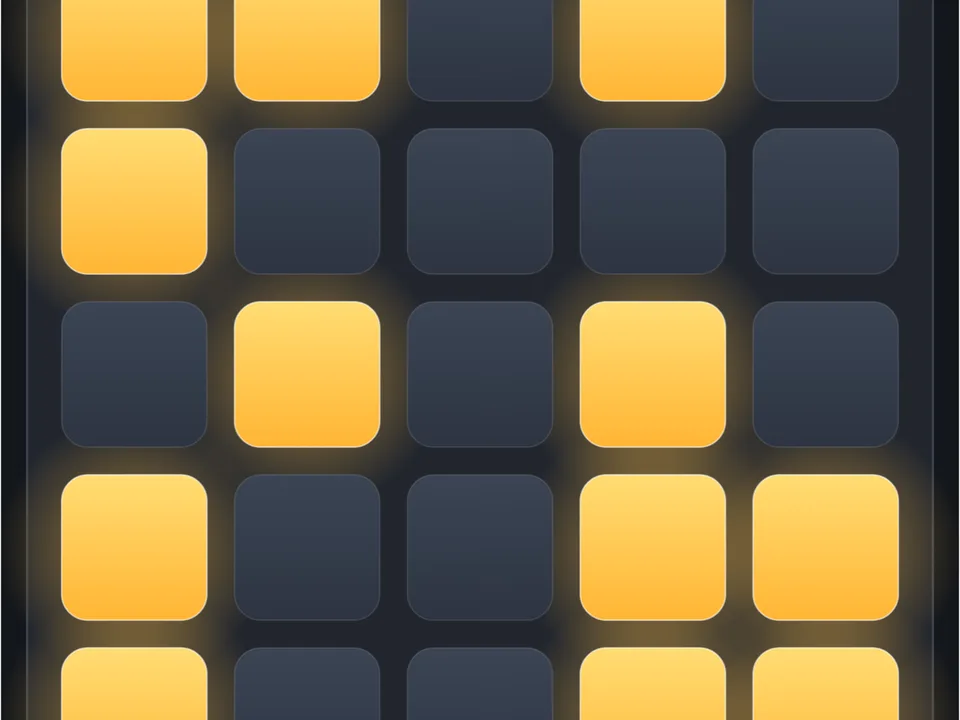
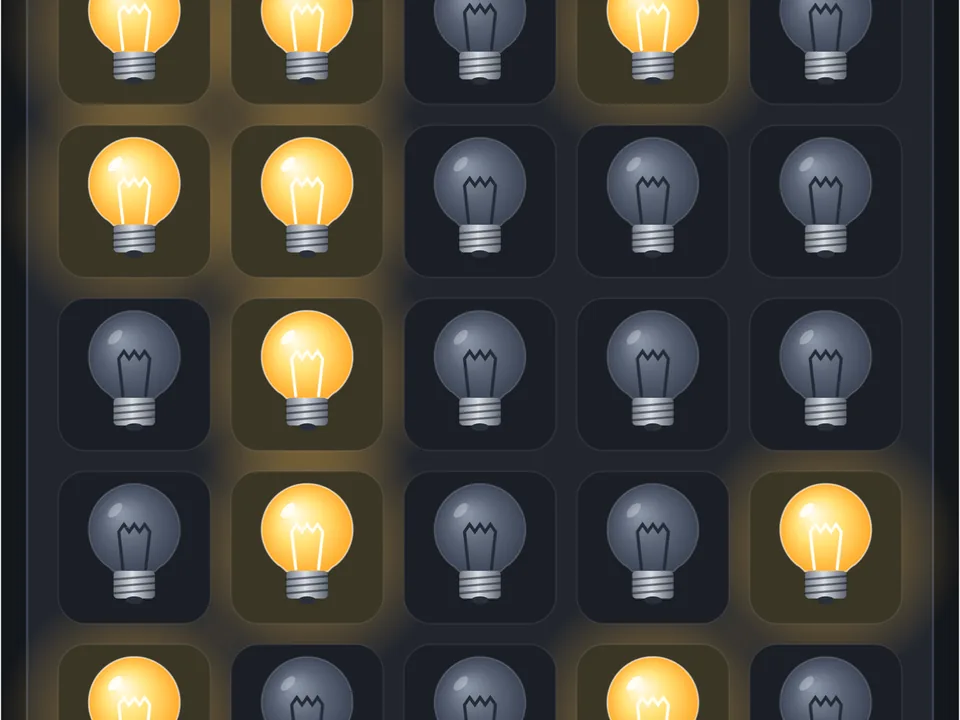
The grill: meat is eaten on the large plate, a wrap begins with its leaf, a whole wrap gives time back; lights on shows bulbs
Claude-Session: https://claude.ai/code/session_01Uedx1uYtd54DPXXtQh77nN

diff --git a/src/games/grill/config.ts b/src/games/grill/config.ts
@@ -1,6 +1,6 @@
 import { part, steps, notes, table } from "../../ui/guide";
 import type { PointConfig } from "../../ui/point-game";
-import { BEST, BURN, DRESS, EAT, SECONDS, WRAP, clock, grill, type State } from "./rules";
+import { BEST, BURN, DRESS, EAT, EXTRA, SECONDS, WRAP, clock, grill, type State } from "./rules";
 import { CUTS, FILLING, PORTION, RELISHES } from "./sim";
 import { GRILL_COLORS, GrillView } from "./view";
 
@@ -40,15 +40,15 @@ export const grillConfig: PointConfig<State> = {
   tableNote: (variant) => (variant === "2" ? "무제한 모드" : `일반 모드 · ${SECONDS}초`),
   rulesTitle: "올리고, 뒤집고, 싸 먹기",
   rules:
-    part("기본 규칙", steps(`화로 양옆에 고기 접시가 ${CUTS.length}개 있습니다. 접시가 비면 <b>바로 다시 ${PORTION}점</b>이 채워집니다.`, "접시의 고기를 <b>불판으로 끌어다 놓습니다</b>. 눌러서는 올라가지 않습니다. 불판에는 일곱 점까지 올릴 수 있습니다.", "고기는 <b>불에 닿은 아래쪽 면</b>만 익습니다. <b>불판 위의 고기를 누르면 뒤집힙니다</b>. 몇 번이든 뒤집을 수 있습니다.", "다 익은 고기는 <b>불판 밖으로 끌어내면</b> 먹습니다. 오른쪽 위의 <b>큰 접시</b>로 끌어다 놓으면 쌈을 쌀 수 있습니다.", "너무 오래 두면 <b>탑니다</b>. 탄 고기는 그 자리를 차지한 채 남으니 끌어내 버립니다.")) +
+    part("기본 규칙", steps(`화로 양옆에 고기 접시가 ${CUTS.length}개 있습니다. 접시가 비면 <b>바로 다시 ${PORTION}점</b>이 채워집니다.`, "접시의 고기를 <b>불판으로 끌어다 놓습니다</b>. 눌러서는 올라가지 않습니다. 불판에는 일곱 점까지 올릴 수 있습니다.", "고기는 <b>불에 닿은 아래쪽 면</b>만 익습니다. <b>불판 위의 고기를 누르면 뒤집힙니다</b>. 몇 번이든 뒤집을 수 있습니다.", "다 익은 고기는 오른쪽 위의 <b>큰 접시로 끌어다 놓으면</b> 먹습니다. 큰 접시에 <b>쌈채소를 먼저</b> 올려 두었으면 먹지 않고 쌈을 쌉니다. 접시가 아닌 곳에 놓으면 제자리로 돌아갑니다.", "너무 오래 두면 <b>탑니다</b>. 탄 고기는 그 자리를 차지한 채 남으니 끌어내 버립니다.")) +
     part("모드", table(["일반 모드", `${SECONDS}초 동안 점수를 최대한 냅니다. 시간이 끝났을 때 불판과 큰 접시에 남은 것은 점수가 없습니다.`], ["무제한 모드", "시간 제한이 없습니다. 끝도 없으니 마음껏 굽습니다."], ["고르기", "위쪽의 <b>새 게임</b>을 누르면 두 모드가 그림으로 나옵니다. 처음 앉으면 일반 모드입니다."])) +
-    part("쌈 싸기", table(["큰 접시", "오른쪽 위의 빈 큰 접시입니다. 여기에 올린 것을 한꺼번에 먹습니다."], ["쌈채소", "아래쪽 바구니에서 큰 접시로 끌어다 놓습니다."], ["고기", `불판에서 큰 접시로 끌어다 놓습니다. ${FILLING}점까지 올라갑니다. 탄 고기는 올라가지 않습니다.`], ["양념", `위쪽의 ${RELISHES.join(", ")}을 큰 접시로 끌어다 놓습니다. 한 가지씩 한 번만 올라갑니다.`], ["먹기", "큰 접시를 <b>누르면</b> 올린 것을 먹습니다."], ["점수", "고기 점수에 더해, 쌈채소로 쌌으면 <b>+2점</b>, 양념 한 가지마다 <b>+1점</b>(세 가지까지)입니다. 쌈채소 없이 먹으면 고기 점수뿐이고, 익은 고기가 없으면 0점입니다."])) +
+    part("쌈 싸기", table(["큰 접시", "오른쪽 위의 빈 큰 접시입니다. 비어 있을 때 고기를 놓으면 그 고기만 바로 먹습니다(고기 점수만)."], ["쌈채소", "아래쪽 바구니에서 큰 접시로 끌어다 놓습니다. <b>쌈채소를 먼저 놓아야</b> 쌈 싸기가 시작됩니다."], ["고기", `불판에서 큰 접시로 끌어다 놓습니다. ${FILLING}점까지 올라갑니다. 탄 고기는 올라가지 않습니다.`], ["양념", `위쪽의 ${RELISHES.join(", ")}을 쌈채소 위로 끌어다 놓습니다. 한 가지씩 한 번만 올라갑니다.`], ["먹기", "큰 접시를 <b>누르면</b> 싼 쌈을 먹습니다."], ["점수", "고기 점수에 더해 쌈 <b>+2점</b>, 양념 한 가지마다 <b>+1점</b>(세 가지까지)입니다. 익은 고기가 없으면 0점입니다."], ["추가 시간", `익은 고기와 양념을 모두 넣은 쌈을 먹으면 일반 모드에서 <b>시간이 ${EXTRA}초</b> 늘어납니다.`])) +
     part("익은 정도와 점수", table(["알아보는 법", "눈금은 없습니다. 아래쪽 면은 <b>연기</b>로, 위쪽 면은 <b>고기의 색</b>으로 알아봅니다. 뒤집으면 방금까지 익던 면이 위로 올라와 보입니다."], ["연기 없음 · 덜 익음", "한 면이라도 덜 익은 고기는 0점입니다."], ["옅은 연기 · 익음", "그 면 1점."], ["흰 연기 · 딱 좋음", "그 면 3점. 양쪽 다 딱 좋으면 한 점에 6점입니다."], ["회색 연기 · 너무 익음", "그 면 1점."], ["검은 연기 · 타기 직전", "그 면 0점. 그대로 두면 탑니다."])) +
-    part("고기와 불", table(...CUTS.map((cut): [string, string] => [cut.name, `한 면이 익는 데 약 ${cut.seconds}초`]), ["가운데 자리", "숯이 가장 센 곳이라 다른 자리보다 빨리 익습니다."], ["자리 옮기기", "불판 위에서 빈자리로 끌면 그 자리로 옮겨집니다."], ["길게 누르기", "불판 위의 고기를 길게 눌렀다 떼면 끌어내지 않고도 먹습니다."])) +
-    part("키보드", table(["고르기", "← → 로 접시, 불판 자리, 큰 접시를 차례로 고릅니다."], ["Enter", "접시에서는 올리기, 자리에서는 뒤집기, 큰 접시에서는 먹기."], ["스페이스 · S", "자리에서 스페이스는 먹기, S는 큰 접시로 보내기."], ["L · 1–4", `L은 쌈채소, 1–4는 ${RELISHES.join("·")}을 큰 접시에 올립니다.`])) +
+    part("고기와 불", table(...CUTS.map((cut): [string, string] => [cut.name, `한 면이 익는 데 약 ${cut.seconds}초`]), ["가운데 자리", "숯이 가장 센 곳이라 다른 자리보다 빨리 익습니다."], ["자리 옮기기", "불판 위에서 빈자리로 끌면 그 자리로 옮겨집니다."])) +
+    part("키보드", table(["고르기", "← → 로 접시, 불판 자리, 큰 접시를 차례로 고릅니다."], ["Enter", "접시에서는 올리기, 자리에서는 뒤집기, 큰 접시에서는 먹기."], ["스페이스 · S", "자리의 고기를 큰 접시로 보냅니다. 쌈채소가 없으면 바로 먹고, 있으면 쌈에 들어갑니다."], ["L · 1–4", `L은 쌈채소, 1–4는 ${RELISHES.join("·")}을 큰 접시에 올립니다.`])) +
     part("일시정지", table(["멈추기", "판 오른쪽 위의 <b>❙❙</b> 버튼이나 키보드 P를 누르면 멈춥니다."], ["이어 하기", "같은 자리의 <b>▶</b> 버튼이나 P를 다시 누릅니다."], ["저절로 멈출 때", "게임 방법이나 설정 창이 열려 있는 동안에도 멈춥니다."])) +
-    part("처음이라면", notes("한 점씩 구우면 시간이 모자랍니다. <b>서너 점을 함께</b> 올려 두고 돌아가며 뒤집습니다.", "<b>차돌박이</b>는 금방 익고 <b>목살</b>은 오래 걸립니다. 오래 걸리는 것을 먼저 올립니다.", "<b>흰 연기</b>가 피어오르면 뒤집고, 다시 흰 연기가 피어오르면 끌어냅니다.", "쌈채소와 양념은 고기가 익는 동안 미리 올려 둡니다. 잘 익은 두 점을 싸면 한 번에 17점까지 납니다.")),
-  help: "마우스·터치: 접시의 고기를 불판으로 끌어다 놓고, 눌러서 뒤집고, 불판 밖이나 큰 접시로 끌어냅니다<br>키보드: ← → 로 고르고 Enter, 스페이스(먹기), S(큰 접시로), L(쌈채소), 1–4(양념)",
+    part("처음이라면", notes("한 점씩 구우면 시간이 모자랍니다. <b>서너 점을 함께</b> 올려 두고 돌아가며 뒤집습니다.", "<b>차돌박이</b>는 금방 익고 <b>목살</b>은 오래 걸립니다. 오래 걸리는 것을 먼저 올립니다.", "<b>흰 연기</b>가 피어오르면 뒤집고, 다시 흰 연기가 피어오르면 큰 접시로 끌어냅니다.", "쌈채소와 양념은 고기가 익는 동안 미리 올려 둡니다. 잘 익은 두 점을 싸면 한 번에 17점까지 납니다.")),
+  help: "마우스·터치: 접시의 고기를 불판으로 끌어다 놓고, 눌러서 뒤집고, 큰 접시로 끌어내 먹습니다(쌈채소를 먼저 놓으면 쌈)<br>키보드: ← → 로 고르고 Enter, 스페이스(큰 접시로), L(쌈채소), 1–4(양념)",
   sides: ["나", ""],
   startWord: "식탁에 앉기",
 };

diff --git a/src/games/lights/view.ts b/src/games/lights/view.ts
@@ -64,23 +64,15 @@ export class LightsView extends FlatView<State> {
     });
     s.on.forEach((lit, i) => {
       const { x, y } = at(i),
-        inset = cell * (0.08 + (this.dip?.cell === i ? 0.05 * Math.sin((1 - (this.dip.until - now) / 160) * Math.PI) : 0)),
-        size = cell - inset * 2,
-        face = pen.createLinearGradient(0, y, 0, y + cell);
-      if (lit) {
-        face.addColorStop(0, "#ffe07a");
-        face.addColorStop(1, "#ffb22e");
-      } else {
-        face.addColorStop(0, "#3d4656");
-        face.addColorStop(1, "#2c3340");
-      }
-      rounded(pen, x + inset, y + inset, size, size, size * 0.18);
-      pen.fillStyle = face;
+        press = this.dip?.cell === i ? 1 - 0.1 * Math.sin((1 - (this.dip.until - now) / 160) * Math.PI) : 1;
+      // The socket each bulb sits in: a shallow square of the panel.
+      rounded(pen, x + cell * 0.06, y + cell * 0.06, cell * 0.88, cell * 0.88, cell * 0.16);
+      pen.fillStyle = lit ? "#3a3626" : "#1b1f26";
       pen.fill();
-      // A lit edge above and a shaded one below make it a button.
-      pen.strokeStyle = lit ? "rgba(255,255,255,0.55)" : "rgba(255,255,255,0.1)";
+      pen.strokeStyle = "rgba(255,255,255,0.07)";
       pen.lineWidth = 1.5 * this.ratio;
       pen.stroke();
+      this.bulb(pen, x + cell / 2, y + cell / 2, cell * 0.8 * press, lit);
     });
     const ring = (cell_: number | null | undefined, color: string, width: number) => {
       if (cell_ === null || cell_ === undefined || cell_ < 0 || cell_ >= s.on.length) return;
@@ -92,5 +84,71 @@ export class LightsView extends FlatView<State> {
     };
     ring(this.marks.hint?.to, "#ff4f38", 5);
     ring(this.marks.cursor, "#6fb0ff", 3.5);
+  }
+  /** A light bulb standing on its cap, `size` tall, lit or dark. */
+  private bulb(pen: CanvasRenderingContext2D, cx: number, cy: number, size: number, lit: boolean) {
+    const r = size * 0.33,
+      gy = cy - size * 0.13,
+      neck = size * 0.15,
+      capTop = gy + r * 0.86,
+      capTall = size * 0.2,
+      glass = pen.createRadialGradient(cx - r * 0.3, gy - r * 0.35, r * 0.05, cx, gy, r * 1.05);
+    if (lit) {
+      glass.addColorStop(0, "#fffbe6");
+      glass.addColorStop(0.45, "#ffe27a");
+      glass.addColorStop(1, "#ffa726");
+    } else {
+      glass.addColorStop(0, "#8a94a6");
+      glass.addColorStop(0.5, "#596274");
+      glass.addColorStop(1, "#3a4252");
+    }
+    // The glass: a ball drawn down into a neck.
+    pen.beginPath();
+    pen.arc(cx, gy, r, Math.PI * 0.72, Math.PI * 0.28, false);
+    pen.quadraticCurveTo(cx + neck * 1.25, capTop - size * 0.02, cx + neck, capTop + size * 0.02);
+    pen.lineTo(cx - neck, capTop + size * 0.02);
+    pen.quadraticCurveTo(cx - neck * 1.25, capTop - size * 0.02, cx + Math.cos(Math.PI * 0.72) * r, gy + Math.sin(Math.PI * 0.72) * r);
+    pen.closePath();
+    pen.fillStyle = glass;
+    pen.fill();
+    pen.strokeStyle = lit ? "rgba(255,255,255,0.6)" : "rgba(255,255,255,0.16)";
+    pen.lineWidth = 1.5 * this.ratio;
+    pen.stroke();
+    // The filament: two posts and a coil between them.
+    pen.strokeStyle = lit ? "#fffef2" : "#252b36";
+    pen.lineWidth = Math.max(1, size * 0.022);
+    pen.lineCap = "round";
+    pen.beginPath();
+    pen.moveTo(cx - neck * 0.55, capTop);
+    pen.lineTo(cx - r * 0.34, gy + r * 0.05);
+    for (let k = 1; k <= 6; k++) pen.lineTo(cx - r * 0.34 + (r * 0.68 * k) / 6, gy + r * 0.05 + (k % 2 ? -r * 0.16 : 0));
+    pen.lineTo(cx + neck * 0.55, capTop);
+    pen.stroke();
+    // A glint on the glass.
+    pen.beginPath();
+    pen.ellipse(cx - r * 0.42, gy - r * 0.42, r * 0.2, r * 0.1, -0.8, 0, Math.PI * 2);
+    pen.fillStyle = lit ? "rgba(255,255,255,0.85)" : "rgba(255,255,255,0.28)";
+    pen.fill();
+    // The screw cap and its contact.
+    const metal = pen.createLinearGradient(cx - neck, 0, cx + neck, 0);
+    metal.addColorStop(0, "#6f7682");
+    metal.addColorStop(0.45, "#d9dee6");
+    metal.addColorStop(1, "#5d6470");
+    rounded(pen, cx - neck, capTop + size * 0.015, neck * 2, capTall, size * 0.03);
+    pen.fillStyle = metal;
+    pen.fill();
+    pen.strokeStyle = "rgba(20,24,30,0.55)";
+    pen.lineWidth = Math.max(1, size * 0.016);
+    for (let k = 1; k <= 3; k++) {
+      const y = capTop + size * 0.015 + (capTall * k) / 4;
+      pen.beginPath();
+      pen.moveTo(cx - neck, y + size * 0.012);
+      pen.lineTo(cx + neck, y - size * 0.012);
+      pen.stroke();
+    }
+    pen.beginPath();
+    pen.ellipse(cx, capTop + size * 0.015 + capTall + size * 0.012, neck * 0.42, size * 0.028, 0, 0, Math.PI * 2);
+    pen.fillStyle = "#2a2f38";
+    pen.fill();
   }
 }

diff --git a/src/games/grill/view.ts b/src/games/grill/view.ts
@@ -2,8 +2,8 @@ import * as T from "three";
 import { wood } from "../../engine/scene-utils";
 import type { Marks } from "../points/view";
 import { TableView, ringMesh, type Spot, type TableSubject } from "../table/view";
-import { BEST, BURN, DRESS, EAT, FLIP, LAY, TICK, WRAP, type State } from "./rules";
-import { CHARRED, COAL, CUTS, DT, FILLING, GOOD, OVER, PORTION, RAW, RELISHES, SLOTS, createWorld, down, eatWrap, fill, flip, lay, leaf, relish, shift, step, take, type Happening, type Piece, type World } from "./sim";
+import { BEST, BONUS, BURN, DRESS, EAT, EXTRA, FLIP, LAY, TICK, WRAP, type State } from "./rules";
+import { CHARRED, COAL, CUTS, DT, FILLING, GOOD, OVER, PORTION, RAW, RELISHES, SLOTS, createWorld, down, eatWrap, flip, lay, leaf, relish, serve, shift, step, take, type Happening, type Piece, type World } from "./sim";
 import tableUrl from "./table.webp?inline";
 import bellyUrl from "./belly.webp?inline";
 import ribUrl from "./rib.webp?inline";
@@ -420,8 +420,7 @@ export class GrillView extends TableView<State> {
       else if (e.key >= "1" && e.key <= String(RELISHES.length)) this.report(relish(this.world, Number(e.key) - 1));
       else if (this.cursor < 0) return;
       else if (e.key === "Enter") this.report(this.cursor < PLATES.length ? lay(this.world, this.cursor) : place ? flip(this.world, slot) : eatWrap(this.world));
-      else if ((e.key === " " || e.key === "e" || e.key === "E" || e.key === "ㄷ") && place) this.report(take(this.world, slot));
-      else if ((e.key === "s" || e.key === "S" || e.key === "ㄴ") && place) this.report(fill(this.world, slot));
+      else if ((e.key === " " || e.key === "e" || e.key === "E" || e.key === "ㄷ" || e.key === "s" || e.key === "S" || e.key === "ㄴ") && place) this.report(serve(this.world, slot));
       else return;
       e.preventDefault();
     });
@@ -669,9 +668,11 @@ export class GrillView extends TableView<State> {
       }
       if (event.kind === "dress") move(DRESS);
       else if (event.kind === "wrap") {
-        const text = event.meats === 0 ? "채소만 먹었어요" : event.points === 0 ? "덜 익었어요" : event.leaf ? `쌈 +${event.points}` : `+${event.points}`;
-        this.say(text, event.leaf && event.points > 0 ? "#ffd24a" : "#dfe6ee", BOARD[0], BOARD[1], now);
+        const timed = event.bonus && !this.state?.endless,
+          text = event.meats === 0 ? "채소만 먹었어요" : event.points === 0 ? "덜 익었어요" : `쌈 +${event.points}${timed ? ` · 시간 +${EXTRA}초` : ""}`;
+        this.say(text, event.points > 0 ? "#ffd24a" : "#dfe6ee", BOARD[0], BOARD[1], now);
         move(WRAP + event.points);
+        if (event.bonus) move(BONUS);
       } else {
         const [x, z] = PLACES[event.slot];
         if (event.kind === "lay") move(LAY);
@@ -724,9 +725,9 @@ export class GrillView extends TableView<State> {
       onBoard = Math.hypot(at.x - BOARD[0], at.z - BOARD[1]) < BOARD[2] + 0.25,
       over = Math.hypot(at.x, at.z) < RIM;
     if (!grab.moved) {
-      // Nothing is laid by a tap: only a piece already on the grill answers one (it turns, or, held a while, is taken off), and the wrap plate (what is on it is eaten).
+      // Nothing is laid by a tap: only a piece already on the grill answers one (it turns), and the wrap plate (what is on it is eaten).
       if (point === WRAPPING) this.report(eatWrap(this.world));
-      else if (point >= PLACE && point < PLATE) this.report(performance.now() - grab.at > 450 ? take(this.world, point - PLACE) : flip(this.world, point - PLACE));
+      else if (point >= PLACE && point < PLATE) this.report(flip(this.world, point - PLACE));
       return;
     }
     if (point >= DISH && point < WRAPPING) {
@@ -741,8 +742,10 @@ export class GrillView extends TableView<State> {
     } else if (point >= PLACE && point < PLATE) {
       const slot = point - PLACE,
         place = this.placeAt(at);
-      if (onBoard) this.report(fill(this.world, slot));
-      else if (!over) this.report(take(this.world, slot));
+      // Onto the large plate it is eaten, or wrapped when a leaf lies there. Set down anywhere else off the grill it goes
+      // back where it was, unless it is burnt: that is thrown away.
+      if (onBoard) this.report(serve(this.world, slot));
+      else if (!over) this.report(this.world.slots[slot]?.burnt ? take(this.world, slot) : []);
       else if (place >= 0) shift(this.world, slot, place);
     }
   }

diff --git a/tests/solo-games.test.ts b/tests/solo-games.test.ts
@@ -918,6 +918,9 @@ describe("meat grill", () => {
     fire.lay(world, 2, 2);
     cook(world, 1);
     expect(fire.worth(world.slots[1]!)).toBe(grill.BEST);
+    // Without a leaf there is no wrap: neither a piece nor a relish goes onto the bare plate.
+    expect(fire.fill(world, 1)).toEqual([]);
+    expect(fire.relish(world, 1)).toEqual([]);
     expect(fire.leaf(world)).toEqual([{ kind: "dress" }]);
     // One leaf, each relish once, two pieces at most.
     expect(fire.leaf(world)).toEqual([]);
@@ -928,21 +931,30 @@ describe("meat grill", () => {
     expect(fire.relish(world, 9)).toEqual([]);
     fire.relish(world, 0);
     // Six for the piece, two for the wrap, one for each of two relishes.
-    expect(fire.eatWrap(world)).toEqual([{ kind: "wrap", points: 10, meats: 1, leaf: true }]);
+    expect(fire.eatWrap(world)).toEqual([{ kind: "wrap", points: 10, meats: 1, bonus: true }]);
     expect(world.wrap).toEqual({ leaf: false, meats: [], relishes: [] });
-    // Without a leaf the piece is worth only itself; a leaf with nothing cooked in it is worth nothing.
+    // Carried to the bare plate a piece is eaten at once, for itself alone; onto a leaf it goes into the wrap.
     world.slots[2] = { cut: 2, done: [0.9, 0.9], turned: true, burnt: false, age: 9, since: 1 };
-    fire.fill(world, 2);
-    fire.relish(world, 3);
-    expect(fire.eatWrap(world)[0]).toMatchObject({ points: grill.BEST, leaf: false });
+    expect(fire.serve(world, 2)).toEqual([{ kind: "eat", slot: 2, raw: false, points: grill.BEST }]);
+    expect(world.wrap.meats).toHaveLength(0);
+    // A leaf with nothing cooked in it is worth nothing, and a wrap without a relish is not a whole one.
     fire.leaf(world);
     fire.relish(world, 2);
-    expect(fire.eatWrap(world)[0]).toMatchObject({ points: 0, meats: 0 });
+    expect(fire.eatWrap(world)[0]).toMatchObject({ points: 0, meats: 0, bonus: false });
+    world.slots[2] = { cut: 2, done: [0.9, 0.9], turned: true, burnt: false, age: 9, since: 1 };
+    fire.leaf(world);
+    expect(fire.serve(world, 2)).toEqual([{ kind: "dress" }]);
+    expect(fire.eatWrap(world)[0]).toMatchObject({ points: grill.BEST + 2, bonus: false });
+    // A burnt piece is thrown away even when a leaf lies there.
+    world.slots[2] = { cut: 2, done: [1.9, 0.9], turned: true, burnt: true, age: 9, since: 1 };
+    fire.leaf(world);
+    expect(fire.serve(world, 2)).toEqual([{ kind: "discard", slot: 2 }]);
+    fire.eatWrap(world);
     for (const slot of [3, 4, 5]) world.slots[slot] = { cut: 0, done: [0.9, 0.9], turned: false, burnt: false, age: 9, since: 1 };
+    fire.leaf(world);
     fire.fill(world, 3);
     fire.fill(world, 4);
     expect(fire.fill(world, 5)).toEqual([]);
-    fire.leaf(world);
     for (let k = 0; k < fire.RELISHES.length; k++) fire.relish(world, k);
     // The most a wrap can be worth.
     expect(fire.eatWrap(world)[0]).toMatchObject({ points: grill.FEAST });
@@ -959,6 +971,9 @@ describe("meat grill", () => {
     expect([state.score, state.eaten, state.perfect, state.wraps, state.burnt, state.winner]).toEqual([18, 2, 1, 1, 1, null]);
     expect(grill.play(state, to(grill.EAT + grill.BEST + 1))).toBeNull();
     expect(grill.play(state, to(grill.WRAP + grill.FEAST + 1))).toBeNull();
+    // A whole wrap gives time back by the clock, and nothing where there is none.
+    expect(grill.play(state, to(grill.BONUS))!.left).toBe(grill.SECONDS + grill.EXTRA);
+    expect(grill.play(grill.createGame("2"), to(grill.BONUS))!.left).toBe(grill.SECONDS);
     for (let i = 0; i < grill.SECONDS; i++) state = grill.play(state, to(grill.TICK))!;
     expect([state.left, state.winner]).toEqual([0, 0]);
     expect(grill.grill.reason(state)).toMatch(/^점수 18점!/);

diff --git a/src/games/grill/sim.ts b/src/games/grill/sim.ts
@@ -64,7 +64,7 @@ export type Happening =
   | { kind: "discard"; slot: number }
   | { kind: "burn"; slot: number }
   | { kind: "dress" }
-  | { kind: "wrap"; points: number; meats: number; leaf: boolean };
+  | { kind: "wrap"; points: number; meats: number; bonus: boolean };
 /** What a side is worth when the piece is eaten. */
 export const grade = (done: number) => (done < RAW ? 0 : done < GOOD ? 1 : done <= OVER ? 3 : done < CHARRED ? 1 : 0);
 /** What a piece is worth: nothing while a side is raw. */
@@ -108,31 +108,38 @@ export function leaf(world: World): Happening[] {
   world.wrap.leaf = true;
   return [{ kind: "dress" }];
 }
-/** A piece goes from the grill onto the wrap plate; a burnt one is not taken. */
+/** A piece goes from the grill into the leaf on the wrap plate; without a leaf there is no wrap, and a burnt one is not taken. */
 export function fill(world: World, slot: number): Happening[] {
   const piece = world.slots[slot];
-  if (!piece || piece.burnt || world.wrap.meats.length >= FILLING) return [];
+  if (!piece || !world.wrap.leaf || piece.burnt || world.wrap.meats.length >= FILLING) return [];
   world.slots[slot] = null;
   world.wrap.meats.push(piece);
   return [{ kind: "dress" }];
 }
-/** A relish is added to the wrap plate, once each. */
+/** A relish is added to the leaf on the wrap plate, once each. */
 export function relish(world: World, which: number): Happening[] {
-  if (!(which >= 0 && which < RELISHES.length) || world.wrap.relishes.includes(which)) return [];
+  if (!world.wrap.leaf || !(which >= 0 && which < RELISHES.length) || world.wrap.relishes.includes(which)) return [];
   world.wrap.relishes.push(which);
   return [{ kind: "dress" }];
 }
 /**
- * What is on the wrap plate is eaten: its pieces for what they are worth,
- * and, when they lie in a leaf and are worth something, two more for the
- * wrap and one for each relish up to three.
+ * A piece is carried from the grill to the large plate: into the leaf when
+ * one lies there, and otherwise eaten at once for what it is worth (a burnt
+ * one is thrown away).
+ */
+export const serve = (world: World, slot: number): Happening[] => (world.wrap.leaf && !world.slots[slot]?.burnt ? fill(world, slot) : take(world, slot));
+/**
+ * The wrap is eaten: its pieces for what they are worth and, when they are
+ * worth something, two more for the leaf and one for each relish up to
+ * three. A wrap with a piece worth something and a relish is a whole one
+ * (`bonus`), which the clock rewards.
  */
 export function eatWrap(world: World): Happening[] {
   const { wrap } = world;
-  if (!wrap.leaf && !wrap.meats.length && !wrap.relishes.length) return [];
+  if (!wrap.leaf) return [];
   const meat = wrap.meats.reduce((sum, piece) => sum + worth(piece), 0),
-    points = meat + (wrap.leaf && meat > 0 ? 2 + Math.min(3, wrap.relishes.length) : 0),
-    told: Happening = { kind: "wrap", points, meats: wrap.meats.length, leaf: wrap.leaf };
+    points = meat + (meat > 0 ? 2 + Math.min(3, wrap.relishes.length) : 0),
+    told: Happening = { kind: "wrap", points, meats: wrap.meats.length, bonus: meat > 0 && wrap.relishes.length > 0 };
   world.wrap = { leaf: false, meats: [], relishes: [] };
   return [told];
 }

diff --git a/src/games/grill/rules.ts b/src/games/grill/rules.ts
@@ -16,6 +16,9 @@ export const SECONDS = 120,
   BURN = 3,
   /** A leaf, a piece or a relish set on the wrap plate. */
   DRESS = 4,
+  /** A whole wrap eaten (leaf, a piece worth something, a relish): the clock gives `EXTRA` seconds back. */
+  BONUS = 5,
+  EXTRA = 5,
   /** A piece eaten is a move to `EAT + points`, 0 (a side still raw) to 6 (both sides just right). */
   EAT = 10,
   BEST = 6,
@@ -41,12 +44,13 @@ export interface State {
 /** A meal by the clock ("1") or without one ("2"). */
 export const createGame = (variant = "1"): State => ({ endless: variant === "2", score: 0, eaten: 0, perfect: 0, wraps: 0, burnt: 0, left: SECONDS, gone: 0, winner: null, last: null, ply: 0 });
 const span = (from: number, count: number) => Array.from({ length: count + 1 }, (_, i) => from + i);
-export const moves = (state: State): Move[] => (state.winner !== null ? [] : [TICK, LAY, FLIP, BURN, DRESS, ...span(EAT, BEST), ...span(WRAP, FEAST)].map((to) => ({ from: -1, to, extra: -1 })));
+export const moves = (state: State): Move[] => (state.winner !== null ? [] : [TICK, LAY, FLIP, BURN, DRESS, BONUS, ...span(EAT, BEST), ...span(WRAP, FEAST)].map((to) => ({ from: -1, to, extra: -1 })));
 export function play(state: State, move: Move): State | null {
   if (state.winner !== null || move.from !== -1 || move.extra !== -1) return null;
   const next = { ...state, last: move.to, ply: state.ply + 1 };
   if (move.to === TICK) return state.endless ? { ...next, gone: state.gone + 1 } : { ...next, gone: state.gone + 1, left: state.left - 1, winner: state.left <= 1 ? 0 : null };
   if (move.to === LAY || move.to === FLIP || move.to === DRESS) return next;
+  if (move.to === BONUS) return state.endless ? next : { ...next, left: state.left + EXTRA };
   if (move.to === BURN) return { ...next, burnt: state.burnt + 1 };
   if (Number.isInteger(move.to) && move.to >= WRAP && move.to <= WRAP + FEAST) return { ...next, score: state.score + move.to - WRAP, wraps: state.wraps + 1 };
   const points = move.to - EAT;

diff --git a/README.md b/README.md
@@ -348,7 +348,7 @@ CHROMIUM_PATH=/usr/bin/chromium npm run test:e2e
 - **불 켜기 (Lights On)**: 3×3부터 7×7까지의 등불 판. 누르면 그 불과 상하좌우가 뒤집히며, 모든 불을 켜면 성공입니다. 문제는 다 켜진 판에서 무작위로 눌러 만들어 반드시 풀리고, 최소 횟수는 GF(2) 소거로 구합니다(`solve` in `lights/rules.ts`). '라이츠 아웃'으로 알려진 퍼즐을 거꾸로 한 것이며 이름은 일반 이름을 씁니다. 퍼즐 판을 씁니다.
 - **지뢰찾기 (Minesweeper)**: 쉬움 8×8(지뢰 10), 보통 12×10(20), 어려움 18×12(40). 지뢰는 첫 칸을 연 뒤 그 칸과 둘레를 피해 묻힙니다. 깃발 꽂기 버튼(F)으로 깃발을 꽂고, 깃발 수가 맞는 숫자를 누르면 둘레가 한꺼번에 열립니다. 무르기는 없습니다.
 - **과일 합치기 (Fruit Merge)**: 유리 상자에 과일을 떨어뜨려 같은 과일끼리 합칩니다(블루베리 → 체리 → 라임 → 자두 → 귤 → 사과 → 자몽 → 코코넛 → 멜론 → 수박). 실시간이며 일시정지할 수 있습니다. 상자는 `fruit/sim.ts`가 고정 간격으로 계산하고(Three.js·DOM 없음), 화면은 떨어뜨림·합쳐짐·넘침만 수로 보고합니다. '수박 게임'으로 알려진 놀이이며 과일의 종류·순서·그림은 따로 만들었습니다.
-- **고기 굽기 (Meat Grill)**: 숯불 화로를 가운데 둔 고깃집 식탁을 위에서 본 3D 화면입니다. 양옆 접시 다섯 개(삼겹살·양념갈비·차돌박이·목살·새송이버섯)의 고기를 불판 일곱 자리로 **끌어다 놓고**, 눌러서 몇 번이든 뒤집고, 불판 밖으로 끌어내 먹습니다. 접시가 비면 바로 채워집니다. 아래쪽 면만 익으며, 눈금 없이 연기와 고기 색으로 익은 정도를 알아봅니다(옅은 연기 1점, 흰 연기 3점, 양쪽 다 딱 좋으면 6점). 큰 접시에 쌈채소·고기(두 점까지)·양념(김치·쌈장·마늘·고추·기름장)을 올려 **쌈**을 싸 먹으면 고기 점수에 쌈 2점과 양념 한 가지당 1점(세 가지까지)이 붙습니다. **일반 모드**(120초 동안 점수 내기)와 **무제한 모드**가 있습니다. 식탁 상판은 Poly Haven의 CC0 사진 텍스처이고, 삼겹살·양념갈비·차돌박이·목살은 WordPress Photo Directory의 CC0 사진에서 잘라낸 살코기 사진 위에 익은 색을 입힙니다(버섯은 코드로 그립니다; 출처는 `public/textures-license.txt`). 상추와 양념 그릇 네 가지(김치·쌈장·마늘과 고추·기름장)도 같은 곳의 CC0 사진입니다. 체스·포켓볼과 함께 실내 반사와 부드러운 그림자를 쓰는 사실적인 조명으로 그립니다. 실시간이며 일시정지할 수 있습니다. 모두 46종입니다.
+- **고기 굽기 (Meat Grill)**: 숯불 화로를 가운데 둔 고깃집 식탁을 위에서 본 3D 화면입니다. 양옆 접시 다섯 개(삼겹살·양념갈비·차돌박이·목살·새송이버섯)의 고기를 불판 일곱 자리로 **끌어다 놓고**, 눌러서 몇 번이든 뒤집고, 오른쪽 위 큰 접시로 끌어내 먹습니다(큰 접시에 쌈채소를 먼저 놓았으면 쌈을 쌉니다; 다른 곳에 놓으면 제자리로 돌아갑니다). 접시가 비면 바로 채워집니다. 아래쪽 면만 익으며, 눈금 없이 연기와 고기 색으로 익은 정도를 알아봅니다(옅은 연기 1점, 흰 연기 3점, 양쪽 다 딱 좋으면 6점). 큰 접시에 쌈채소·고기(두 점까지)·양념(김치·쌈장·마늘·고추·기름장)을 올려 **쌈**을 싸 먹으면 고기 점수에 쌈 2점과 양념 한 가지당 1점(세 가지까지)이 붙습니다. 익은 고기와 양념을 모두 넣은 쌈은 일반 모드에서 시간을 5초 늘려 줍니다. **일반 모드**(120초 동안 점수 내기)와 **무제한 모드**가 있습니다. 식탁 상판은 Poly Haven의 CC0 사진 텍스처이고, 삼겹살·양념갈비·차돌박이·목살은 WordPress Photo Directory의 CC0 사진에서 잘라낸 살코기 사진 위에 익은 색을 입힙니다(버섯은 코드로 그립니다; 출처는 `public/textures-license.txt`). 상추와 양념 그릇 네 가지(김치·쌈장·마늘과 고추·기름장)도 같은 곳의 CC0 사진입니다. 체스·포켓볼과 함께 실내 반사와 부드러운 그림자를 쓰는 사실적인 조명으로 그립니다. 실시간이며 일시정지할 수 있습니다. 모두 46종입니다.
 
 - **물 나누기 (Water Pouring)**: 실험실의 눈금 없는 비커 세 개. 부으면 비커를 들어 기울여 붓는 모습과 물줄기가 보입니다. 가장 큰 그릇만 가득 차 있고, 부으면 붓는 쪽이 비거나 받는 쪽이 찰 때까지 옮겨집니다. 목표는 둘 중 하나가 무작위로 정해집니다: 큰 그릇 둘에 **절반씩 나누기**, 또는 **어느 그릇에든 정해진 양 만들기**. 그릇의 크기도 할 때마다 무작위이고, 탐색으로 풀리는 문제만 냅니다(`createGame` in `pour/rules.ts`). **최소 횟수**를 함께 구해 오른쪽 판에 부은 횟수와 나란히 보여 주고, 성공하면 견주어 알려 줍니다. 난이도는 최소 횟수로 나뉩니다(쉬움 2–4, 보통 5–7, 어려움 8번 이상). 구슬치기와 같은 퍼즐 판(난이도·힌트·무르기·처음부터·다른 퍼즐·다음 스테이지)을 씁니다.
 - **강 건너기 (River Crossing)**: 강가의 일행을 작은 배로 모두 건너편에 옮깁니다. 사람과 동물은 코드로 빚은 모형입니다. 스테이지 넷: **농부와 짐**(늑대·염소·양배추, 여우·닭·곡식, 고양이·쥐·치즈 가운데 무작위; 농부만 노를 젓습니다), **양과 늑대**(셋씩, 배에 둘), **질투하는 부부**(세 쌍, 배에 둘), **큰 무리**(양·늑대 넷씩이나 다섯씩 또는 부부 네 쌍, 배에 셋). 탈 이를 눌러 태우고 배를 누르면 건넙니다. 규칙을 어기는 수를 두면 무엇이 잘못됐는지와 함께 **실패**로 보여 주고, 무르기나 처음부터로 이어서 합니다. 최소 횟수는 탐색(`solve` in `river/rules.ts`)으로 구해 건넌 횟수와 견줍니다. 일행은 무리의 크기에 맞춰 줄을 지어 서므로(작은 무리는 크게, 큰 무리는 작게) 서로 겹치지 않습니다. 강물이 흐르고, 배 둘레에 물결이 퍼지고, 꼬리가 흔들리며, 실패하면 문제가 된 이들 머리 위에 빨간 느낌표가 뜹니다. 구슬치기와 같은 퍼즐 판을 씁니다.

diff --git a/AGENTS.md b/AGENTS.md
@@ -122,3 +122,4 @@
 - Chess, pocket ball and the meat grill are lit the more photographic way (the user saw a trial and asked for it to be applied): `realism` in `src/engine/scene-utils.ts` sets neutral tone mapping, soft shadows, a reflected room (`RoomEnvironment` through `PMREMGenerator`, at 0.32), lowers the sky light and adds a weak fill and rim light. A `TableView` asks for it by overriding `photographic()`; chess calls it itself and disposes the reflected texture. The first trial at full strength washed the tables out: keep the values low, and look at a table before giving it this light (each was tuned for the plain light).
 - `realism` builds the reflected room only where a graphics card draws the picture: `PMREMGenerator` compiles shaders that stalled the start of a table for two seconds under software rendering (the browser tests run so, and chess's responsiveness test and pocket ball's drags failed). Software renderers are told by `WEBGL_debug_renderer_info`; `data-capture` on `<html>` or `?reflect=1` force the room for thumbnails and pictures. Do not make the room unconditional again.
 - Chess's responsiveness test is `@alone` like its gomoku and Reversi siblings: with two browsers at once it counted no frame in its second even under the old light (measured). Alone it draws about 47 frames with the plain light and 31 to 36 with `realism` under software rendering; both pass.
+- Meat grill, asked by the user and replacing what is said above where they differ: a piece is eaten only on the large plate (`serve`: with no leaf there it is eaten at once for its own worth; with a leaf it goes into the wrap); set down anywhere else off the grill it goes back, and only a burnt piece is thrown away so; there is no eating by a long press. A wrap begins with the leaf: `fill` and `relish` do nothing on a bare plate, and `eatWrap` needs a leaf. A wrap holding a piece worth something and a relish is whole (`bonus`), and the view then reports `BONUS`, which gives `EXTRA` (5) seconds back by the clock. Lights on draws each lamp as a light bulb on its cap (`bulb` in `lights/view.ts`, painted in code), not a square: the user asked.

diff --git a/ROADMAP.md b/ROADMAP.md
@@ -227,6 +227,8 @@
 - [x] 고기 굽기의 고기 네 가지를 CC0 사진으로(익는 색은 사진 위에 입힘)
 - [x] 고기 굽기의 상추와 양념 그릇도 CC0 사진으로
 - [x] 체스·포켓볼·고기 굽기에 사실적인 조명(실내 반사, 톤 매핑, 부드러운 그림자, 보조광·역광)
+- [x] 고기 굽기: 고기는 큰 접시에서만 먹기, 쌈채소를 먼저 놓아야 쌈, 온전한 쌈은 시간 +5초
+- [x] 불 켜기의 전등을 전구 그림으로
 - [x] 과일 합치기 마찰 낮춤 / 하노이의 탑 끌어다 놓기 / 불 끄기 → 불 켜기 / 첫 화면 상단 바 제거와 제목 변경 / 게임 설명 창 열림 애니메이션
 - [x] 하노이 원판 구멍과 끌어 올려 빼기 / 설명 창 느리게 열림, 안내 문구 삭제 / 조준선 점선(알까기·카롬 검정, 포켓볼 흰색) / 인디언 포커 버튼 이름과 자리 고정 / 체크·장군 큰 글씨
 - [x] 조준선을 짧은 둥근 점으로 / 하노이는 다른 기둥 어디든 성공 / 체크메이트·승리·패배·GOAL 문구, 잡았다 문구 통일 / 게임 결과 창 모두 끔(당분간)
